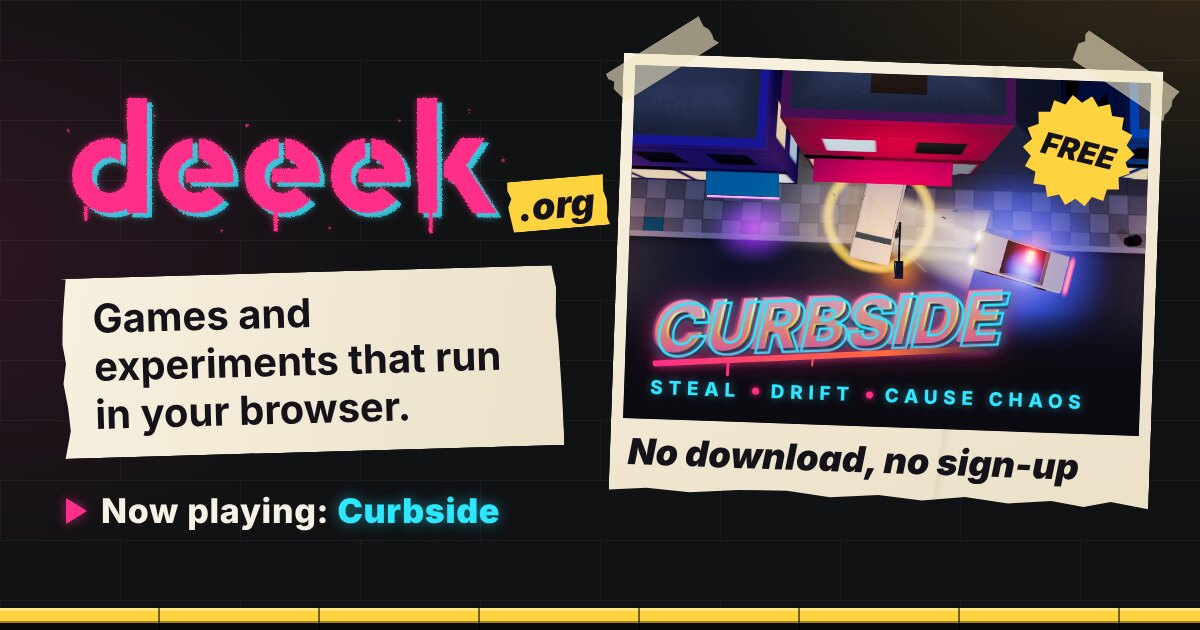
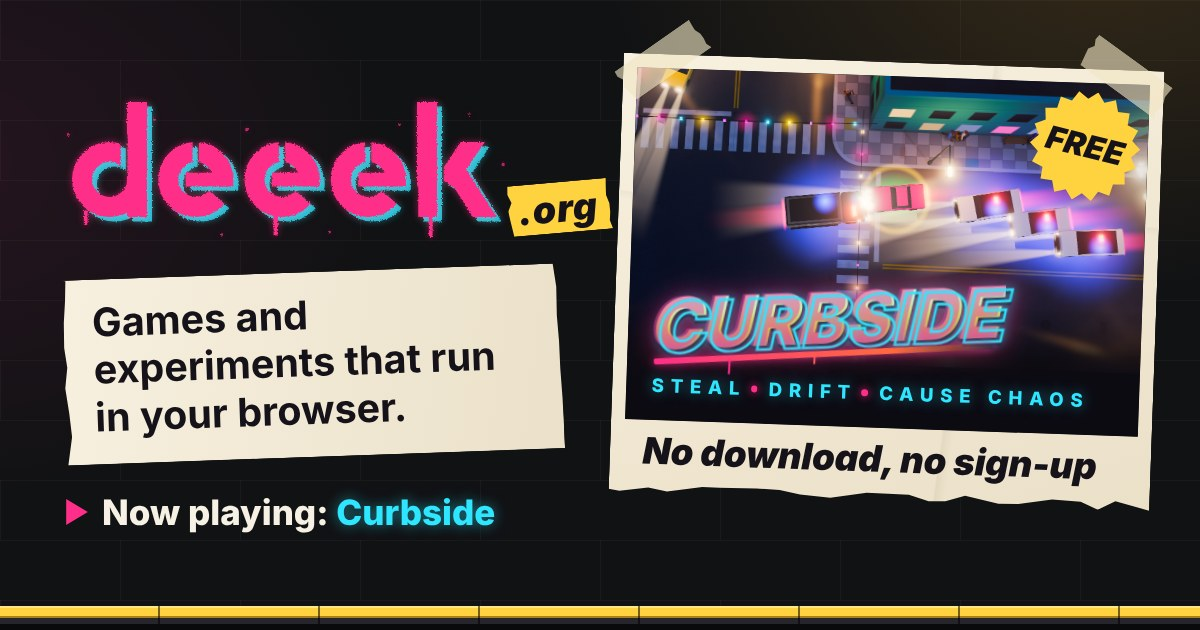
Refresh the Curbside screenshots from 0.33.0
New key art (a night chase in the neon district), the dusk and heliport
prints, and the link-preview card, with their alt text and captions.
The heliport print now comes in 400/640/800 like the others.

Claude-Session: https://claude.ai/code/session_01ChShYRPiuTzbi3ZyvF926f

diff --git a/index.html b/index.html
@@ -19,7 +19,7 @@
 <meta property="og:image" content="https://deeek.org/og.jpg">
 <meta property="og:image:width" content="1200">
 <meta property="og:image:height" content="630">
-<meta property="og:image:alt" content="The deeek.org stencil tag beside a Curbside poster: a police car rams a van on a neon street at night.">
+<meta property="og:image:alt" content="The deeek.org stencil tag beside a Curbside poster: police cars chase a pink car across a neon-lit junction at night.">
 <meta name="twitter:card" content="summary_large_image">
 <!-- Same origin as /curbside/ and every other project: no service worker,
      no manifest, no storage on this page. See README.md. -->
@@ -1085,7 +1085,7 @@ a { color: inherit; }
           <div class="art">
             <picture>
               <source type="image/webp" srcset="/img/curbside-chase-480.webp 480w, /img/curbside-chase-760.webp 760w, /img/curbside-chase-872.webp 872w" sizes="(min-width: 2500px) and (min-height: 1400px) 800px, (min-width: 2200px) and (min-height: 1240px) 690px, (min-width: 1500px) 600px, (min-width: 1100px) 37vw, (min-width: 700px) 50vw, calc(100vw - 56px)">
-              <img src="/img/curbside-chase-760.jpg" srcset="/img/curbside-chase-480.jpg 480w, /img/curbside-chase-760.jpg 760w, /img/curbside-chase-872.jpg 872w" sizes="(min-width: 2500px) and (min-height: 1400px) 800px, (min-width: 2200px) and (min-height: 1240px) 690px, (min-width: 1500px) 600px, (min-width: 1100px) 37vw, (min-width: 700px) 50vw, calc(100vw - 56px)" width="872" height="490" alt="Curbside at night: a police car rams the player's van on a neon street, sirens glowing." fetchpriority="high">
+              <img src="/img/curbside-chase-760.jpg" srcset="/img/curbside-chase-480.jpg 480w, /img/curbside-chase-760.jpg 760w, /img/curbside-chase-872.jpg 872w" sizes="(min-width: 2500px) and (min-height: 1400px) 800px, (min-width: 2200px) and (min-height: 1240px) 690px, (min-width: 1500px) 600px, (min-width: 1100px) 37vw, (min-width: 700px) 50vw, calc(100vw - 56px)" width="872" height="490" alt="Curbside at night: a SWAT van and three police cars close in on the player's pink car at a neon-lit junction, sirens glowing." fetchpriority="high">
             </picture>
             <div class="art-title">
               <h2 class="wordmark" id="curbside-title"><span class="vh">Curbside</span><span class="wm" data-text="Curbside" aria-hidden="true">Curbside</span><span class="wm-drip" aria-hidden="true"></span></h2>
@@ -1201,17 +1201,17 @@ a { color: inherit; }
           <span class="tape tape--top" aria-hidden="true"></span>
           <picture>
             <source type="image/webp" srcset="/img/curbside-drive-400.webp 400w, /img/curbside-drive-640.webp 640w, /img/curbside-drive-800.webp 800w" sizes="(min-width: 2500px) and (min-height: 1400px) 400px, (min-width: 2200px) and (min-height: 1240px) 345px, (min-width: 1100px) 300px, (min-width: 700px) 24vw, 45vw">
-            <img src="/img/curbside-drive-400.jpg" srcset="/img/curbside-drive-400.jpg 400w, /img/curbside-drive-640.jpg 640w, /img/curbside-drive-800.jpg 800w" sizes="(min-width: 2500px) and (min-height: 1400px) 400px, (min-width: 2200px) and (min-height: 1240px) 345px, (min-width: 1100px) 300px, (min-width: 700px) 24vw, 45vw" width="640" height="360" alt="Curbside at dusk: driving a van at 92 km/h through a junction, with a Frenzy challenge on screen." loading="lazy" decoding="async">
+            <img src="/img/curbside-drive-400.jpg" srcset="/img/curbside-drive-400.jpg 400w, /img/curbside-drive-640.jpg 640w, /img/curbside-drive-800.jpg 800w" sizes="(min-width: 2500px) and (min-height: 1400px) 400px, (min-width: 2200px) and (min-height: 1240px) 345px, (min-width: 1100px) 300px, (min-width: 700px) 24vw, 45vw" width="640" height="360" alt="Curbside at dusk: driving a van at 71 km/h down a neon-lit street, with the radar, score and police scanner on screen." loading="lazy" decoding="async">
           </picture>
-          <figcaption>Dusk, 92 km/h</figcaption>
+          <figcaption>Dusk, 71 km/h</figcaption>
         </figure>
         <figure class="print">
           <span class="tape tape--top" aria-hidden="true"></span>
           <picture>
-            <source type="image/webp" srcset="/img/curbside-heliport-400.webp 400w, /img/curbside-heliport-672.webp 672w" sizes="(min-width: 2500px) and (min-height: 1400px) 400px, (min-width: 2200px) and (min-height: 1240px) 345px, (min-width: 1100px) 300px, (min-width: 700px) 24vw, 45vw">
-            <img src="/img/curbside-heliport-400.jpg" srcset="/img/curbside-heliport-400.jpg 400w, /img/curbside-heliport-672.jpg 672w" sizes="(min-width: 2500px) and (min-height: 1400px) 400px, (min-width: 2200px) and (min-height: 1240px) 345px, (min-width: 1100px) 300px, (min-width: 700px) 24vw, 45vw" width="672" height="378" alt="Curbside at night: a red car and a few people on a neon-lit street beside a rooftop heliport." loading="lazy" decoding="async">
+            <source type="image/webp" srcset="/img/curbside-heliport-400.webp 400w, /img/curbside-heliport-640.webp 640w, /img/curbside-heliport-800.webp 800w" sizes="(min-width: 2500px) and (min-height: 1400px) 400px, (min-width: 2200px) and (min-height: 1240px) 345px, (min-width: 1100px) 300px, (min-width: 700px) 24vw, 45vw">
+            <img src="/img/curbside-heliport-400.jpg" srcset="/img/curbside-heliport-400.jpg 400w, /img/curbside-heliport-640.jpg 640w, /img/curbside-heliport-800.jpg 800w" sizes="(min-width: 2500px) and (min-height: 1400px) 400px, (min-width: 2200px) and (min-height: 1240px) 345px, (min-width: 1100px) 300px, (min-width: 700px) 24vw, 45vw" width="640" height="360" alt="Curbside by day: a blue car on a sunlit street between a rooftop heliport and a rainbow-painted roof." loading="lazy" decoding="async">
           </picture>
-          <figcaption>Night, the heliport</figcaption>
+          <figcaption>Day, the heliport</figcaption>
         </figure>
       </div>
     </div>
